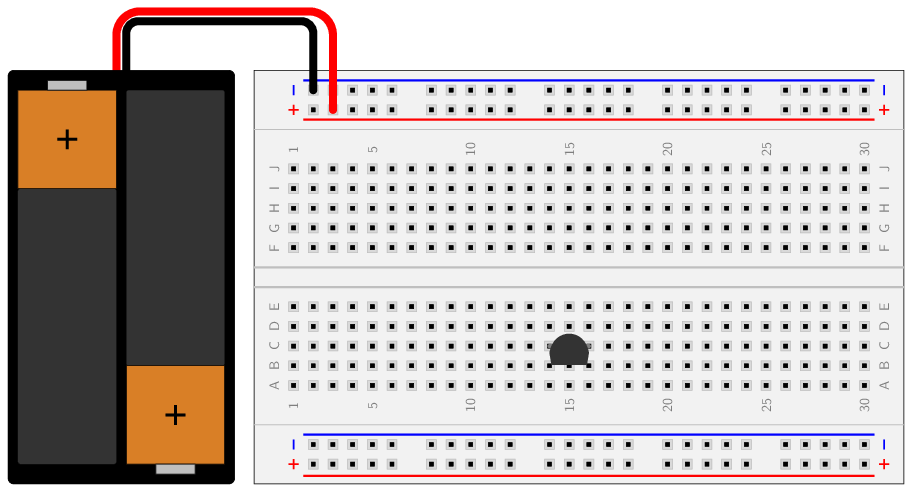
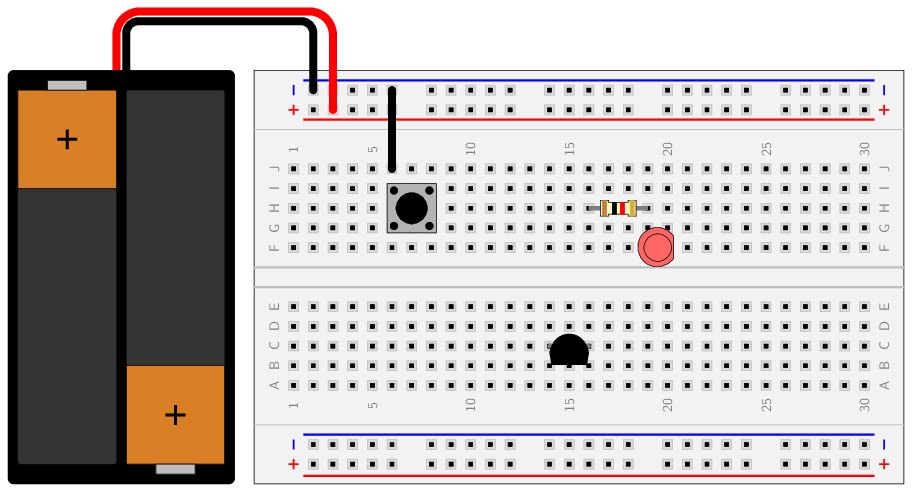
Save changes at: 1755112871

diff --git a/example04.tex b/example04.tex
@@ -4,21 +4,20 @@
 \input{lib/breadboard.tex}
 \input{lib/battery.tex}
 \input{lib/transistor.tex}
-% \input{lib/resistor.tex}
-% \input{lib/led.tex}
-% \input{lib/switch.tex}
-% \input{lib/wire.tex}
-% \input{lib/electrolyticcapacitor.tex}
+\input{lib/resistor.tex}
+\input{lib/led.tex}
+\input{lib/switch.tex}
+\input{lib/wire.tex}
 \begin{document}
 \begin{tikzpicture}[x=5mm,y=5mm]
 \breadboard{}
 \battery{}
 % \wire{12}{15}{12}{12}{purple}
 % \wire{12}{10}{14}{10}{purple}
-% \switch{14}{8}
-% \resistor{16}{10}{19}{10}{brown}{black}{red}
-% \led{19}{8}{20}{8}{red}
-% \wire{20}{12}{20}{16}{black}
+\switch{6}{10}
+\wire{6}{12}{6}{16}{black}
+\resistor{16}{10}{19}{10}{brown}{black}{red}
+\led{19}{8}{20}{8}{red}
 \transistor{14}{3}{16}{3}
 \end{tikzpicture}
 \end{document}
